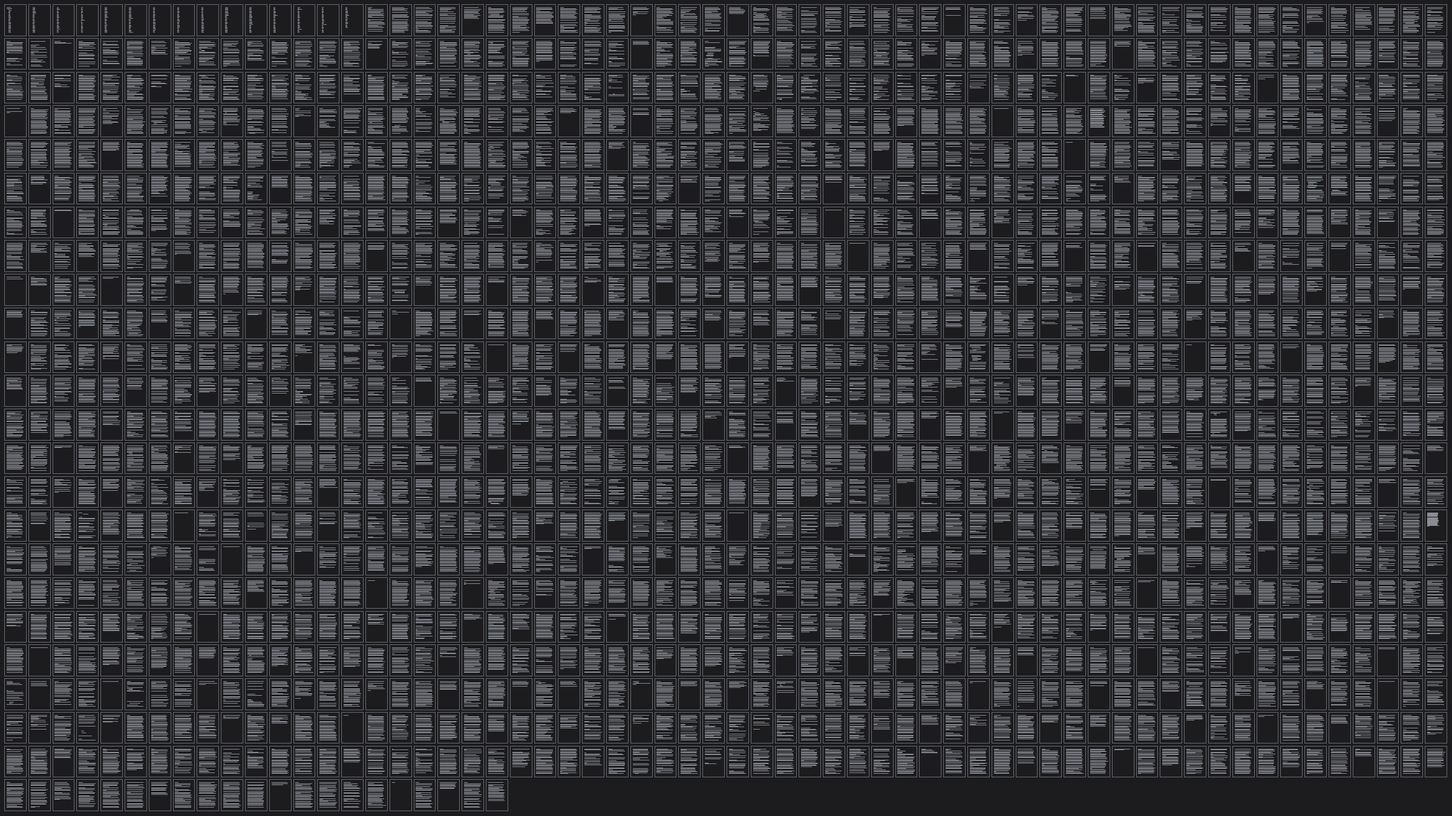
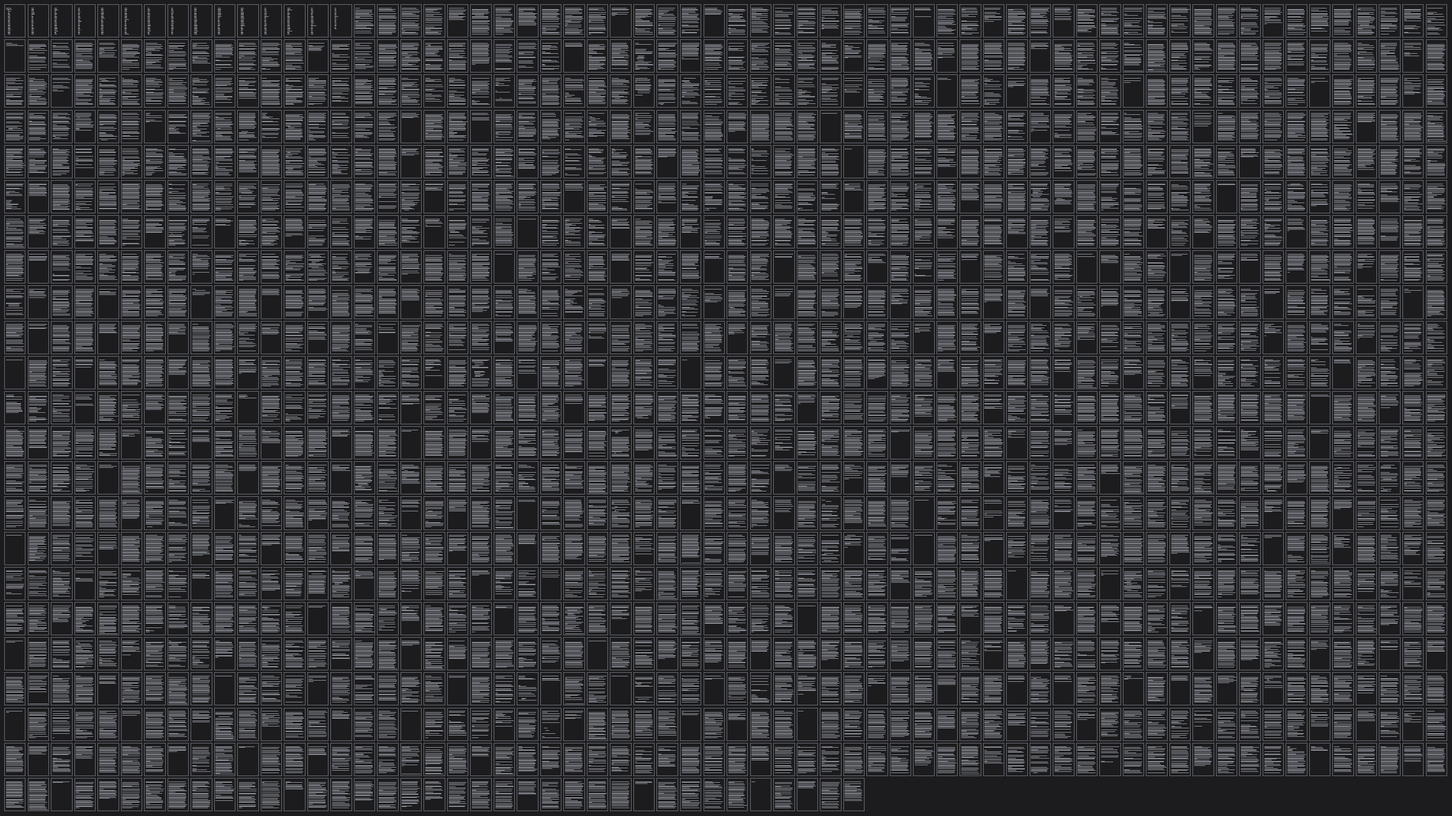
The book page as Dobbie's: a running footer, centred headings, margins that hold it, and text that fades to pale grey from afar
Every page is padded to its 52 lines and carries a footer under a blank line, the author at the left, the page number centred and the title flush right, spaced across the page in the face's own advances and set in the comment kind so the scheme greys it; chapter headings are centred the same way. The margins are 7.5 percent at the sides, 9 above and 3 below, the footer sitting in the bottom one. The scheme gained an ink: the bars' alpha far and near and the word blocks', code's 0.55, 0.8 and 1 as before, the book's 0.22, 0.22 and 0.4 with black bars, so a page seen from far reads as the pale grey of averaged text instead of dark bars and solid blocks.

diff --git a/book_index.py b/book_index.py
@@ -37,16 +37,20 @@ import urllib.request
 import numpy as np
 
 sys.path.insert(0, os.path.dirname(os.path.abspath(__file__)))
-from atlas_index import (SPECS, MAX_COLS, TAB, PUNCT, SPACE, _CTRL, tokenize, write_index)  # noqa: E402
+from atlas_index import (SPECS, MAX_COLS, TAB, PUNCT, SPACE, COMMENT, _CTRL, tokenize, write_index)  # noqa: E402
+from atlas_layout import font_advances  # noqa: E402
 
 # the book's colours, Dobbie's: white pages on his demo's blue-grey ground
 # (its clearColor), black text, dark grey bars, the bands in the ground's
 # own colour so parts draw nothing; words and numbers alike. The face is
 # Literata, a book serif under the OFL, proportional: the layout and the
 # viewer take its advances from the face
-SCHEME = {"ground": "a0a9af", "page": "ffffff", "bar": "5a5e66", "band": "a0a9af",
+SCHEME = {"ground": "a0a9af", "page": "ffffff", "bar": "000000", "band": "a0a9af",
           "font": "fonts/Literata-Regular.ttf",
-          "kinds": ["000000", "141414", "141414", "141414", "141414", "3a3a3a", "141414", "4a4a4a", "141414", "141414"],
+          # ink: the alpha of the bars far and near, and of the word blocks: a
+          # page seen from far reads as the pale grey of averaged text
+          "ink": [0.22, 0.22, 0.4],
+          "kinds": ["000000", "141414", "141414", "141414", "141414", "6a6a6a", "141414", "4a4a4a", "141414", "141414"],
           "items": ["7aa2f7", "e0c080", "d7a0a8", "5fb7b7", "8c909a"]}
 
 PART_RX = re.compile(r"^(?:(?:BOOK|PART|VOLUME)\s+[A-Z0-9]+\b|(?:FIRST|SECOND|THIRD)\s+EPILOGUE\b"
@@ -62,6 +66,33 @@ ASCII_MAP = str.maketrans({"“": '"', "”": '"', "‘": "'", "’": "'",
                            "—": "--", "–": "-", "…": "...", "•": "*",
                            "™": "(TM)", "œ": "oe", "Œ": "OE", "æ": "ae",
                            "Æ": "AE", "ß": "ss", " ": " "})
+
+
+def header_field(lines, key):
+    """`Title: War and Peace` from Gutenberg's header, or None."""
+    rx = re.compile(r"^" + key + r":\s*(.+?)\s*$")
+    for ln in lines[:200]:
+        m = rx.match(ln)
+        if m:
+            return m.group(1)
+    return None
+
+
+class Measure:
+    """Line widths in the book's face, in line heights, for the footer and
+    the centred headings: the face's advances from atlas_layout.font_advances."""
+    def __init__(self, face):
+        adv, _ = font_advances(face)
+        self.adv = [0.0] * 128
+        self.adv[32:127] = adv["per_glyph"]
+        self.space = self.adv[32]
+
+    def width(self, text):
+        return sum(self.adv[ord(c)] if ord(c) < 128 else self.adv[63] for c in to_ascii(text))
+
+    def spaces(self, w, floor=False):
+        n = int(w / self.space) if floor else int(round(w / self.space))
+        return max(n, 1)
 
 
 def to_ascii(text):
@@ -163,8 +194,10 @@ def pages_of(lines, page_lines):
     return pages
 
 
-def index_page(relpath, lines):
-    """The ("ok", ...) tuple atlas_index.index_file returns, for prose."""
+def index_page(relpath, lines, footer=False):
+    """The ("ok", ...) tuple atlas_index.index_file returns, for prose. With
+    `footer` the last line is the running footer, in the comment kind so
+    the scheme can grey it."""
     raw = [to_ascii(ln).expandtabs(TAB).encode("ascii").translate(_CTRL).rstrip()[:MAX_COLS]
            for ln in lines]
     joined = b"\n".join(raw)
@@ -174,6 +207,11 @@ def index_page(relpath, lines):
     cf = np.frombuffer(joined, np.uint8)
     kf = np.frombuffer(bytes(kinds), np.uint8).copy()
     kf[(cf == 32) & (kf == PUNCT)] = SPACE
+    if footer and len(raw):
+        tail = len(raw[-1])
+        if tail:
+            last = kf[-tail:]
+            last[(cf[-tail:] != 32)] = COMMENT
     keep = cf != 10
     chars, kinds = cf[keep], kf[keep]
     nbytes = sum(len(ln.encode("utf-8")) + 1 for ln in lines)
@@ -181,12 +219,33 @@ def index_page(relpath, lines):
             line_len.astype(np.uint16), line_indent.astype(np.uint16), int((chars != 32).sum()), [])
 
 
-def build(parts, page_lines, name):
+def page_width(parts, measure):
+    """The book's line width in line heights: the 99.5th percentile of its
+    lines' widths in the face, the width the footer spans and headings
+    centre on."""
+    widths = [measure.width(ln) for _, chapters in parts for _, lines in chapters for ln in lines if ln.strip()]
+    return float(np.percentile(widths, 99.5)) if widths else 40.0
+
+
+def footer_line(measure, width, author, number, title):
+    """`Leo Tolstoy   653   War and Peace`: the author at the left, the
+    number centred, the title flush right on a line `width` line heights
+    wide, spaced with the face's own space."""
+    w_a, w_n, w_t = measure.width(author), measure.width(number), measure.width(title)
+    s1 = measure.spaces(width / 2 - w_a - w_n / 2)
+    s2 = measure.spaces(width - w_a - s1 * measure.space - w_n - w_t, floor=True)   # never past the width
+    return author + " " * s1 + number + " " * s2 + title
+
+
+def build(parts, page_lines, name, measure=None, width=None, author="", book_title=""):
     """dirs, files, file_dir, results in atlas_index's pre-order: the root,
     then each part with its pages. Chapters are not directories, a page's
     path names its chapter (`Book One: 1805/Chapter III/p. 27`), so the
     layout is a grid of pages per part, as printed. A text without any
-    heading is one part named after the corpus, its pages `name/p. N`."""
+    heading is one part named after the corpus, its pages `name/p. N`.
+    Every page is padded to page_lines lines and given a blank line and a
+    running footer, and chapter headings are centred on the page width, as
+    a printed page has them."""
     dirs = [{"path": "", "parent": -1, "children": [], "files": [], "top": 0}]
     files, file_dir, results = [], [], []
     page_no = 0
@@ -205,7 +264,11 @@ def build(parts, page_lines, name):
                 dirs[p]["files"].append(len(files))
                 files.append(rel)
                 file_dir.append(p)
-                results.append(index_page(rel, page))
+                if measure is not None:
+                    page = [(" " * measure.spaces((width - measure.width(ln)) / 2) + ln.strip())
+                            if CHAPTER_RX.match(ln.rstrip()) else ln for ln in page]
+                    page = page + [""] * (page_lines - len(page)) + ["", footer_line(measure, width, author, str(page_no), book_title)]
+                results.append(index_page(rel, page, footer=measure is not None))
     return dirs, files, file_dir, results
 
 
@@ -250,14 +313,22 @@ def main():
     t0 = time.time()
     with open(args.text, "rb") as f:
         text = f.read().decode("utf-8", "replace")
+    header = text.replace("\r\n", "\n").split("\n")
+    book_title = header_field(header, "Title") or args.name
+    author = header_field(header, "Author") or ""
+    # Gutenberg writes honorifics lowercase before the name (`graf Leo Tolstoy`)
+    author = " ".join(w for i, w in enumerate(author.split()) if not (w.islower() and i == 0))
     lines = body_lines(text)
     parts = split_book(lines, args.front)
-    dirs, files, file_dir, results = build(parts, args.page_lines, args.name)
+    measure = Measure(SCHEME["font"])
+    width = page_width(parts, measure)
+    dirs, files, file_dir, results = build(parts, args.page_lines, args.name, measure, width, author, book_title)
     skipped = {"binary": 0, "large": 0, "submodules": 0}
     seconds = round(time.time() - t0, 2)
     stats = write_index(args.out, args.name, os.path.abspath(args.text), dirs, files, file_dir,
                         results, skipped, seconds,
-                        extra={"corpus": "book", "page_lines": args.page_lines, "scheme": SCHEME})
+                        extra={"corpus": "book", "page_lines": args.page_lines, "page_rows": args.page_lines + 2,
+                               "title": book_title, "author": author, "scheme": SCHEME})
     n_chapters = sum(len(c) for _, c in parts)
     print(f"wrote {args.out}/index.npz + index.json: {len(parts)} parts, {n_chapters} chapters, "
           f"{stats['files']} pages, {stats['lines']} lines, {stats['chars'] / 1e6:.2f} M chars "

diff --git a/atlas_layout.py b/atlas_layout.py
@@ -28,7 +28,7 @@ WORLD_W = 1600.0
 PAD_FRAC, PAD_MIN, PAD_MAX = 0.015, 0.05, 4.0
 PAD_LINES, PAD_MIN_LINES = 2.0, 0.01   # a treemap directory's padding: about two of its own lines
 PAGE_GAP = 0.08            # a book's gutter between pages, as a fraction of the cell width, as Dobbie's grid
-PAGE_MARGIN = (0.10, 0.08) # a book page's inner margins, as fractions of the page's width and height
+PAGE_MARGIN = (0.075, 0.09, 0.03)   # a book page's margins: left and right, top, bottom, as fractions of the page; the footer sits in the bottom one
 AREA_PER_LINE = 34.0       # world area a line takes at pitch 1: p tall, about 60 characters of 0.57 p wide
 GAP = 0.06                 # column gap as a fraction of the column width
 MAX_COLS = 64
@@ -614,9 +614,9 @@ def build_layout(args, z, meta, t0):
     page, book_cols = None, 0
     if flat:
         # a page cell's aspect: the book's line width by its fullest page
-        page = (int(meta.get("page_lines", np.diff(file_line0).max())), float(np.percentile(line_w, 99.5)))
-        mx, my = PAGE_MARGIN
-        aspect_p = page[1] / (page[0] + 2) * (1 - 2 * my) / (1 - 2 * mx)   # the page around its text block
+        page = (int(meta.get("page_rows", meta.get("page_lines", np.diff(file_line0).max()))), float(np.percentile(line_w, 99.5)))
+        mx, mt, mb = PAGE_MARGIN
+        aspect_p = page[1] / (page[0] + 2) * (1 - mt - mb) / (1 - 2 * mx)   # the page around its text block
         if args.book_layout == "parts":
             dir_rect, dir_pad, file_rect, book_cols = book_layout(dirs, world, aspect_p)
         else:
@@ -632,9 +632,9 @@ def build_layout(args, z, meta, t0):
     # the text block: a book page's inner rectangle, the file itself for code
     file_text = file_rect.copy()
     if flat:
-        mx, my = PAGE_MARGIN
+        mx, mt, mb = PAGE_MARGIN
         w, h = file_rect[:, 2] - file_rect[:, 0], file_rect[:, 3] - file_rect[:, 1]
-        file_text += np.stack([mx * w, my * h, -mx * w, -my * h], axis=1)
+        file_text += np.stack([mx * w, mt * h, -mx * w, -mb * h], axis=1)
     pitch, cols, rows, cap, colw, capw = layout_files(file_text, file_line0, line_len, line_w,
                                                       args.char_aspect, page, prop)
     if prop:

diff --git a/atlas_viewer.py b/atlas_viewer.py
@@ -71,7 +71,7 @@ def rgb(h):
 
 
 # the default scheme, the code atlas's: an index.json "scheme" overrides any key
-SCHEME = {"ground": "1c1c1e", "page": "111114", "bar": "a4a8b0",
+SCHEME = {"ground": "1c1c1e", "page": "111114", "bar": "a4a8b0", "ink": [0.55, 0.8, 1.0],
           "kinds": ["000000", "cfd2d8", "7aa2f7", "e0c080", "d7a0a8", "7f9f7f", "f0a060", "8c909a", "7fc8c8", "c8d08c"],
           "items": ["7aa2f7", "e0c080", "d7a0a8", "5fb7b7", "8c909a"]}
 HUES = np.array([rgb(h) for h in ("6a8fd8", "4fb3a6", "7fbf6a", "e08a4a", "d8c050",
@@ -279,6 +279,7 @@ class Viewer:
         self.page = rgb(sc["page"].lstrip("#"))
         self.bar = rgb(sc["bar"].lstrip("#"))
         self.band = rgb(sc["band"].lstrip("#")) if sc.get("band") else None   # one colour for every band, else the hues
+        self.ink = np.array(sc["ink"], np.float32)     # bars' alpha far and near, the word blocks' alpha
         self.kind_colors = np.array([rgb(h.lstrip("#")) for h in sc["kinds"]], np.float32)
         self.item_colors = {k + 1: rgb(h.lstrip("#")) for k, h in enumerate(sc["items"])}
         if sc.get("font") and args.font == atlas_font.DEFAULT_FONT:
@@ -579,6 +580,9 @@ class Viewer:
             loc = glGetUniformLocation(p, "uBandFlat")
             if loc >= 0:
                 glUniform1i(loc, 1 if self.band is not None else 0)
+            loc = glGetUniformLocation(p, "uInk")
+            if loc >= 0:
+                glUniform3f(loc, *self.ink)
             loc = glGetUniformLocation(p, "uGlyph")
             if loc >= 0:
                 gm, g = (self.ui_gm, self.ui_glyphs) if n == "text" else (self.gm, self.glyphs)

diff --git a/docs/DESIGN.md b/docs/DESIGN.md
@@ -113,7 +113,7 @@ Per frame, in numpy over files: pixels per line `ppl = file_pitch * zoom`, fores
 | 2 tokens | 3 to 6 | one block per character in its kind colour; item outlines |
 | 3 text | 6 and up | glyphs in the kind colour, from the raster atlas below 12 px per line and from the vector tier above; item outlines |
 
-A proportional face draws the tokens and text LODs with `glyph.glsl` instead, one instanced quad per character of each run of visible files, placed at its row's position plus its x and sized by its advance from a 96-entry uniform, the same LODs' fragment code applied per glyph, the raster cell sampled over the glyph's own advance; `line.glsl` then keeps LODs 0 and 1. The kind bands are the item rectangles of LOD 0 and 1 files filled in the item kind colour at 18 percent (fills far, outlines near); at LODs 2 and 3 the same rectangles are 1.5 pixel outlines. Every LOD draws the file background `#111114` under the lines, so nothing flips colour at a cut; the hue lives only in the directory bands. The border is one grey pixel, two yellow for a hit file, three for the current hit's file, computed in the fragment shader from the world distance to the edge and `fwidth` so it holds in perspective, and drawn twice: with the fill before the lines and as a ring after them, so column-0 text never breaks a hit outline. The hovered file gets the light border and no fill, so its text stays readable. The tint, when on (`C`, `--tint`), mixes the fill towards ember by the file's value; bars and glyphs are untouched, and the status line shows the label. The ground, page, bar, kind and item colours are the scheme's, uniforms set once at start; the UI boxes, the hues and the yellow of the hits are the viewer's own. Dimmed files (no hits while a filter is active) darken their fill by half and their bars and glyphs to 45 percent.
+A proportional face draws the tokens and text LODs with `glyph.glsl` instead, one instanced quad per character of each run of visible files, placed at its row's position plus its x and sized by its advance from a 96-entry uniform, the same LODs' fragment code applied per glyph, the raster cell sampled over the glyph's own advance; `line.glsl` then keeps LODs 0 and 1. The kind bands are the item rectangles of LOD 0 and 1 files filled in the item kind colour at 18 percent (fills far, outlines near); at LODs 2 and 3 the same rectangles are 1.5 pixel outlines. Every LOD draws the file background `#111114` under the lines, so nothing flips colour at a cut; the hue lives only in the directory bands. The border is one grey pixel, two yellow for a hit file, three for the current hit's file, computed in the fragment shader from the world distance to the edge and `fwidth` so it holds in perspective, and drawn twice: with the fill before the lines and as a ring after them, so column-0 text never breaks a hit outline. The hovered file gets the light border and no fill, so its text stays readable. The tint, when on (`C`, `--tint`), mixes the fill towards ember by the file's value; bars and glyphs are untouched, and the status line shows the label. The bars' alpha ramps with pixels per line between the scheme's far and near ink, and the word blocks take its block ink: code's are 0.55, 0.8 and 1, the book's 0.22, 0.22 and 0.4, so a page from afar averages to the pale grey of its text. The ground, page, bar, kind and item colours are the scheme's, uniforms set once at start; the UI boxes, the hues and the yellow of the hits are the viewer's own. Dimmed files (no hits while a filter is active) darken their fill by half and their bars and glyphs to 45 percent.
 
 ### Glyphs
 
@@ -133,9 +133,9 @@ The filter (`/` or a click in the box; `Backspace`; `Escape` clears) runs from t
 
 The README's adapter split (a hierarchy, a layout, an aggregate colour per corpus; everything else shared) was tried on Dobbie's own example, the whole of War and Peace, and held: one indexer and one placement function, no new shader, no viewer change but a parser fix.
 
-`book_index.py` reads a Project Gutenberg plain text (`--gutenberg N` fetches `https://www.gutenberg.org/cache/epub/N/pgN.txt` into `data/gutenberg/` once) and writes the same `index.npz` + `index.json` as `atlas_index.py`, through the `write_index` function shared with stage 1. The hierarchy is parts over chapters over pages: a heading at column 0 such as `BOOK ONE: 1805`, `PART I` or `FIRST EPILOGUE: 1813 - 20` opens a part, `CHAPTER I` a chapter, and every `--page-lines` (52) lines of a chapter are one page, numbered through the book (`Book One: 1805/Chapter I/p. 17`); a page never starts with a blank line, runs of blank lines are squeezed to one, a chapter ends its last page early. The contents listing indents its copies of every heading, which is what keeps it out of the structure. The parts are the directories (18 with the front matter) and the pages the files; chapters are in the page paths only, so the layout is a grid of pages per part, as printed, and the hover label carries the chapter. Gutenberg's header and footer, outside the `*** START` and `*** END` lines, are dropped. A text with no heading at all is one part named after the corpus, its pages `name/p. N`, so any plain text file is a book. Text is kept on Gutenberg's own line breaks (72 columns, 85 at most) and normalised to ASCII: curly quotes straight, the em dash `--`, accents stripped by NFKD decomposition (Natásha to Natasha), the rest `?`; the whole book fits Windows-1252, so one byte per character would hold the accents once the glyph tiers cover more than 32 to 126 (README, open question 2). A `prose` tokenizer spec gives words the ident kind and numbers the number kind, with no string literals (a line of dialogue is not a string) and no items. The index carries the book's scheme, taken from Dobbie's demo: pages as white quads, text black, on the `#a0a9af` ground his page clears to, the bands in that ground colour so nothing marks a part but the crumb trail; the face of his demo came from the source PDF and is not recorded anywhere reachable, and the book's face is Literata, the OFL book serif, proportional, through the width-based layout and the per-glyph draw described under the stages above. War and Peace: 18 parts, 366 chapters, 1,401 pages, 63,191 lines, 3.14 M characters, 2.63 M glyphs, 0.46 s; Dobbie's reflowed pages numbered 1,273.
+`book_index.py` reads a Project Gutenberg plain text (`--gutenberg N` fetches `https://www.gutenberg.org/cache/epub/N/pgN.txt` into `data/gutenberg/` once) and writes the same `index.npz` + `index.json` as `atlas_index.py`, through the `write_index` function shared with stage 1. The hierarchy is parts over chapters over pages: a heading at column 0 such as `BOOK ONE: 1805`, `PART I` or `FIRST EPILOGUE: 1813 - 20` opens a part, `CHAPTER I` a chapter, and every `--page-lines` (52) lines of a chapter are one page, numbered through the book (`Book One: 1805/Chapter I/p. 17`); a page never starts with a blank line, runs of blank lines are squeezed to one, a chapter ends its last page early. The contents listing indents its copies of every heading, which is what keeps it out of the structure. The parts are the directories (18 with the front matter) and the pages the files; chapters are in the page paths only, so the layout is a grid of pages per part, as printed, and the hover label carries the chapter. Gutenberg's header and footer, outside the `*** START` and `*** END` lines, are dropped. A text with no heading at all is one part named after the corpus, its pages `name/p. N`, so any plain text file is a book. Text is kept on Gutenberg's own line breaks (72 columns, 85 at most) and normalised to ASCII: curly quotes straight, the em dash `--`, accents stripped by NFKD decomposition (Natásha to Natasha), the rest `?`; the whole book fits Windows-1252, so one byte per character would hold the accents once the glyph tiers cover more than 32 to 126 (README, open question 2). A `prose` tokenizer spec gives words the ident kind and numbers the number kind, with no string literals (a line of dialogue is not a string) and no items. Every page is padded to its 52 lines and given a blank line and a running footer, author, page number and title spaced across the page width in the face's own advances (the 99.5th percentile of the book's line widths), its characters in the comment kind so the scheme greys them; chapter headings are centred on the same width; the author and title come from Gutenberg's header, its lowercase honorific dropped. The index carries the book's scheme, taken from Dobbie's demo: pages as white quads, text black, on the `#a0a9af` ground his page clears to, the bands in that ground colour so nothing marks a part but the crumb trail; the face of his demo came from the source PDF and is not recorded anywhere reachable, and the book's face is Literata, the OFL book serif, proportional, through the width-based layout and the per-glyph draw described under the stages above. War and Peace: 18 parts, 366 chapters, 1,401 pages, 63,191 lines, 3.14 M characters, 2.63 M glyphs, 0.46 s; Dobbie's reflowed pages numbered 1,273.
 
-`atlas_layout.py` reads `"corpus": "book"` and `"page_lines"` from the index and skips the treemap. The default, `book_flow`, is one grid of every page in reading order, as Dobbie's demo: the layout's tree is the root alone, the parts draw nothing, every page sits in a gutter of 8 percent of the cell's width, and its text block is the page inset by margins of a tenth of its width and 8 percent of its height (`file_text` in the layout, the file itself for code; the viewer's hover reads from it), 60 pages across for War and Peace. `--book-layout parts` keeps the earlier `book_layout`: every part a full-width band of whole page rows stacked in reading order, every page one cell of one size, rows filled left to right, a part's last row short. The column count is the one that brings a cell closest to the page aspect (the book's 99.5th-percentile line width times the character aspect, over the page's lines plus two) from the wide side, so a page's single column always holds its lines: 65 across for War and Peace, 16 wrapped rows in the whole book (the few lines past 73 columns). `layout_files` takes a `page` argument that pitches every file as a full page aimed at the book's line width, so a short last page keeps its chapter's text size and no page splits into columns. A book's weight is lines, so every page is one cell whatever its length, and its layout declares itself flat: in 3D nothing rises, the tilted view is the sheet in perspective. The code rule, a file's height as the square root of its weight and a terrace per directory level, made the book a city of near-equal blocks under tokens and a plateau with dips at chapter ends under lines, and equal heights still left the Books as terraces; a book is one sheet. The strip treemap (Bederson et al.) was tried first with chapters as directories and rejected: pages came out at every size and shape, which is the code map's look, not a book's. The empty end of each band is the price of parts as rectangles; letting a part start mid-row would make it a non-rectangle, which nothing in the viewer draws.
+`atlas_layout.py` reads `"corpus": "book"` and `"page_lines"` from the index and skips the treemap. The default, `book_flow`, is one grid of every page in reading order, as Dobbie's demo: the layout's tree is the root alone, the parts draw nothing, every page sits in a gutter of 8 percent of the cell's width, and its text block is the page inset by margins of 7.5 percent of its width, 9 percent of its height above and 3 below (`file_text` in the layout, the file itself for code; the viewer's hover reads from it), 62 pages across for War and Peace. Every page is `page_rows` rows, the 52 text lines, a blank and the footer, so the footer sits in the bottom margin. `--book-layout parts` keeps the earlier `book_layout`: every part a full-width band of whole page rows stacked in reading order, every page one cell of one size, rows filled left to right, a part's last row short. The column count is the one that brings a cell closest to the page aspect (the book's 99.5th-percentile line width times the character aspect, over the page's lines plus two) from the wide side, so a page's single column always holds its lines: 65 across for War and Peace, 16 wrapped rows in the whole book (the few lines past 73 columns). `layout_files` takes a `page` argument that pitches every file as a full page aimed at the book's line width, so a short last page keeps its chapter's text size and no page splits into columns. A book's weight is lines, so every page is one cell whatever its length, and its layout declares itself flat: in 3D nothing rises, the tilted view is the sheet in perspective. The code rule, a file's height as the square root of its weight and a terrace per directory level, made the book a city of near-equal blocks under tokens and a plateau with dips at chapter ends under lines, and equal heights still left the Books as terraces; a book is one sheet. The strip treemap (Bederson et al.) was tried first with chapters as directories and rejected: pages came out at every size and shape, which is the code map's look, not a book's. The empty end of each band is the price of parts as rectangles; letting a part start mid-row would make it a non-rectangle, which nothing in the viewer draws.
 
 The viewer needed one fix: `--goto` split its argument at the first colon, and a book's paths hold colons (`Book One: 1805/...`); it now splits at the last colon and only when a line number follows. The frame loop measured 2.4 ms mean over the scripted zoom (9.1 MB on the GPU). Screenshots and their commands are in `docs/shots/README.md`, the hero (3D at 3 px per line about page 481) is the README's second image.
 

diff --git a/README.md b/README.md
@@ -121,8 +121,8 @@ Dobbie's example, War and Peace, needs nothing beyond the install: no submodule,
 ./atlas_viewer.py data/war-and-peace_atlas
 ```
 
-1. `book_index.py` fetches Project Gutenberg ebook 2600 (3.4 MB) into `data/gutenberg/pg2600.txt` on the first run and reads it from there after, drops Gutenberg's header and footer, and splits the text on its headings: `BOOK ONE: 1805` and the two epilogues open a part, `CHAPTER I` a chapter, every 52 lines of a chapter are a page. It writes `data/war-and-peace_atlas/index.npz` and `index.json`, the same index a source tree gets, with parts as directories and pages as files named `Book One: 1805/Chapter I/p. 17`, and the book's scheme, Dobbie's colours, white pages, black text, grey bars, his demo's blue-grey ground, and its face, Literata; and prints the counts: 18 parts, 366 chapters, 1,401 pages, 2.63 million glyphs, half a second.
-2. `atlas_layout.py` sees `"corpus": "book"` in the index and lays the pages out in reading order instead of a treemap: one grid, as Dobbie's demo, every page one cell of one size in a gutter of 8 percent of its width, its text block inset by margins of a tenth of the page's width and 8 percent of its height, 60 pages across, the parts drawing nothing, and writes `layout.npz`, with lines as the book's one metric; `--book-layout parts` gives every part its own band of page rows instead. In 3D a book is one flat sheet, nothing extruded, the tilt just a way of looking at it. Add `--preview docs/shots/war-and-peace_layout.png` to render the result with Pillow without opening a window.
+1. `book_index.py` fetches Project Gutenberg ebook 2600 (3.4 MB) into `data/gutenberg/pg2600.txt` on the first run and reads it from there after, drops Gutenberg's header and footer, and splits the text on its headings: `BOOK ONE: 1805` and the two epilogues open a part, `CHAPTER I` a chapter, every 52 lines of a chapter are a page, padded to 52, with a running footer under a blank line, author, page number and title spaced across the page in the face's own widths, and chapter headings centred the same way. It writes `data/war-and-peace_atlas/index.npz` and `index.json`, the same index a source tree gets, with parts as directories and pages as files named `Book One: 1805/Chapter I/p. 17`, and the book's scheme, Dobbie's colours, white pages, black text, grey bars, his demo's blue-grey ground, and its face, Literata; and prints the counts: 18 parts, 366 chapters, 1,401 pages, 2.63 million glyphs, half a second.
+2. `atlas_layout.py` sees `"corpus": "book"` in the index and lays the pages out in reading order instead of a treemap: one grid, as Dobbie's demo, every page one cell of one size in a gutter of 8 percent of its width, its text block inset by margins of 7.5 percent of the page's width, 9 percent of its height above and 3 below, the footer sitting in the bottom one, 62 pages across, the parts drawing nothing, and writes `layout.npz`, with lines as the book's one metric; `--book-layout parts` gives every part its own band of page rows instead. In 3D a book is one flat sheet, nothing extruded, the tilt just a way of looking at it. Add `--preview docs/shots/war-and-peace_layout.png` to render the result with Pillow without opening a window.
 3. `atlas_viewer.py` opens the book fitted to the window, its text in Literata at every size, glyphs placed by their own advances, and the hints and panel in the monospace face. Everything in Controls works: `/` filters (`Natasha` finds 1,213 mentions on 299 pages), Enter flies to the next hit, `3` tilts the sheet (a book has no heights in 3D), hover names the part, chapter and page under the cursor. There is no tint, since a book has no commits.
 
 The README's second image is the viewer scripted from the shell, and the opening pages are one flag away:
@@ -191,7 +191,7 @@ The tint over the fitted map: lines added and removed over the whole history, lo
 
 ### A book
 
-The same images for War and Peace, in `docs/shots/war-and-peace/`. The map fitted: one grid of 1,401 pages in reading order, 60 across, each page a white cell of one size in a grey gutter, a chapter's last page short.
+The same images for War and Peace, in `docs/shots/war-and-peace/`. The map fitted: one grid of 1,401 pages in reading order, 62 across, each page a white cell of one size in a grey gutter, the text the pale grey of its averaged ink.
 
 ![the book fitted](docs/shots/war-and-peace/overview.png)
 
@@ -209,7 +209,7 @@ The filter `Natasha`: 1,213 mentions on 299 pages, every page with one outlined 
 How each stage is built is in [docs/DESIGN.md](docs/DESIGN.md). The short version:
 
 - **Index.** `atlas_index.py` walks the tree (honouring `.gitignore`, skipping binaries and submodules), expands tabs, maps every character to one column, and runs a small regex tokenizer per language family (Rust, C-like, Python, shell, plain) that gives every character one of ten kinds. Items (functions, structs, enums, impls, modules) come from regexes with brace or indentation matching. The output is a handful of numpy arrays: characters, kinds, line offsets, file ranges, item ranges, and the tint. `book_index.py` writes the same index from a Project Gutenberg text: a heading line such as `BOOK ONE: 1805` opens a part, `CHAPTER I` a chapter, and every 52 lines of a chapter are a page, the file, named `Book One: 1805/Chapter I/p. 17`; the text is kept as Gutenberg wrapped it and normalised to ASCII (curly quotes straight, the em dash two hyphens, accents stripped, so Natásha is Natasha until the glyph tiers cover more than ASCII), and words are the identifier kind, with no string literals and no items.
-- **The scheme.** An index may carry a `scheme`: the ground, the page (the file fill), the bar colour, the ten kind colours, the five item colours, and a face under `fonts/`; the viewer takes what is given over the code atlas's defaults and hands the colours to the shaders as uniforms. The book's is Dobbie's demo: pages as white quads on a `#a0a9af` ground, text black, the bands in the ground's own colour so the parts draw nothing, and Literata for the face. His own face was Centaur, read from the embedded fonts of the demo's source PDF; Centaur is Monotype's, and Literata is the book serif made for reading on screens under the OFL.
+- **The scheme.** An index may carry a `scheme`: the ground, the page (the file fill), the bar colour, the ten kind colours, the five item colours, and a face under `fonts/`; the viewer takes what is given over the code atlas's defaults and hands the colours to the shaders as uniforms. The book's is Dobbie's demo: pages as white quads on a `#a0a9af` ground, text black, the bands in the ground's own colour so the parts draw nothing, Literata for the face, and an ink of 22 percent for the bars and 40 for the word blocks, so a page seen from afar reads as the pale grey of averaged text, as his do, where code keeps its bright bars. The scheme's `ink` is the bars' alpha far and near and the word blocks'. His own face was Centaur, read from the embedded fonts of the demo's source PDF; Centaur is Monotype's, and Literata is the book serif made for reading on screens under the OFL.
 - **Proportional text.** When the face's advances differ, the layout measures every line in line heights by summing its glyphs' advances, sizes columns and wraps by width, and writes each glyph's x within its row (`char_x`) and each row's width; the viewer then draws the tokens and text LODs with one instanced quad per glyph (`shaders/glyph.glsl`) placed by that x and sized by its advance, from the same raster atlas and vector tier, and finds the glyph under the cursor or a hit by the same offsets. Bars, and every LOD of a monospace corpus, keep the per-line draw. Code stays on the monospace grid.
 - **The tint.** In a git checkout the index step runs one `git log --numstat` over the indexed directories (20 seconds for emscripten's 30,274 commits, under a second for big-text's), sums each file's lines added and removed, a rename counting as a removal and an addition, and writes the sums on a log scale to 0..1 as the tint, labelled `churn`. The viewer knows only that a leaf has a number in 0..1 and a label: it maps the number to ember over the file fill and shows the label in the status line. A book writes no tint.
 - **Layout.** `atlas_layout.py` is a squarified treemap over the directory tree with padding per level, sized to about two lines of the directory's own text, which the viewer draws as the directory band: a few pixels wide at most, so the bands stay thin at every zoom, a hairline at the fit and a gutter of two lines once the text is legible. Each file's area is its weight, tokens for code. Each file is wrapped into as many equal columns as keep a 90th-percentile line width readable; lines longer than a column wrap inside it, continuation rows hanging in by two characters. `tests/check_layout.py` checks the invariants. A book skips the treemap: one grid of pages in reading order, every page one cell of the size that lets one column hold the book's line width inside the page's margins, in a gutter, so 60 pages across for War and Peace, and every page pitched as a full page so a short last page keeps its chapter's text size; `--book-layout parts` gives every part its own band of page rows instead.

diff --git a/docs/shots/README.md b/docs/shots/README.md
@@ -51,7 +51,7 @@ The line numbers in the `--goto` and `--hover` commands are the ones that held w
 
 - `big-text_layout.png`: the layout stage's own render of big-text (29 files, about 7,200 lines): the `docs/`, `tests/` and `shaders/` bands, files as 1 px outlines wrapped into columns, one grey bar per line from indent to length.
 - `emscripten_layout.png`: the same for the whole emscripten tree (11,495 files, 2.80 million lines, 698 directories): nested directory bands in the top-level hue, `test/` and `system/` the largest, big files wrapped into up to 64 columns, tiny files as slivers.
-- `war-and-peace_layout.png`: the book: one grid of 1,401 pages in reading order, 60 across, in gutters, one grey bar per line, a chapter's last page short.
+- `war-and-peace_layout.png`: the book: one grid of 1,401 pages in reading order, 62 across, in gutters, one grey bar per line, a chapter's last page short.
 
 ## big-text (its own source: 29 files, about 7,200 lines)
 
@@ -69,7 +69,7 @@ The whole tree as git tracks it, test suites and system libraries included, at t
 
 ## War and Peace (Project Gutenberg 2600: 18 parts, 366 chapters, 1,401 pages, 63,191 lines, 2.63 million glyphs)
 
-In the book's own scheme, Dobbie's: white pages and black text on his demo's blue-grey ground, the text in Literata, every glyph placed by its own advance. The standard set with `--filter Natasha` (1,213 hits on 299 pages), a book having no tint, plus:
+In the book's own scheme, Dobbie's: white pages and black text on his demo's blue-grey ground, the text in Literata, every glyph placed by its own advance, the pages fading to pale grey as the text gives way to blocks and bars, every page with its running footer. The standard set with `--filter Natasha` (1,213 hits on 299 pages), a book having no tint, plus:
 
 - `war-and-peace/overview.png`: the map fitted: one grid of pages in reading order, the front matter's contents pages first, each page a cell at the line-bars LOD; no part is drawn, the crumb trail names the one under the centre.
 - `war-and-peace/hover.png`: the text view hovered at the centre: the label `Book Eight: 1811 - 12/Chapter IX/p. 657` (part, chapter, page; a book has no items).
